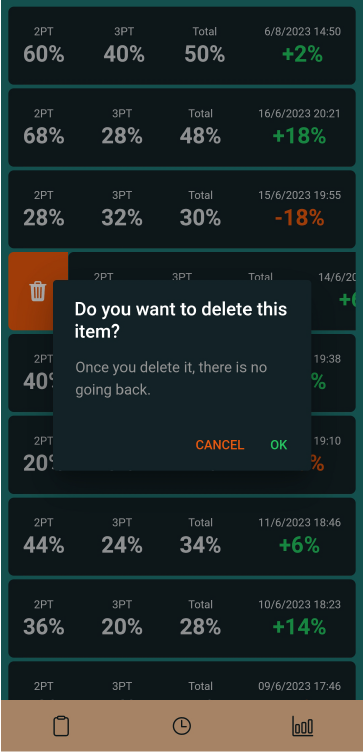
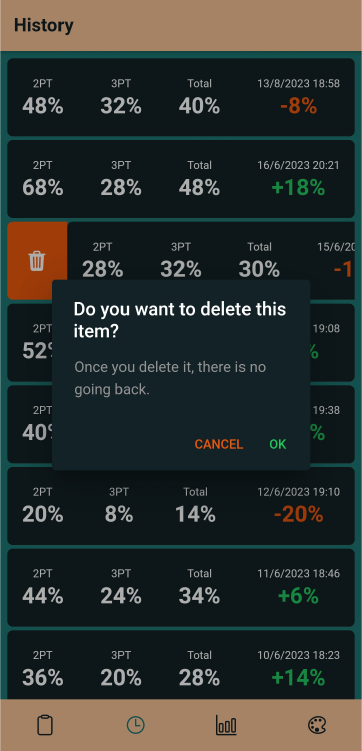
feat: tutorial update

diff --git a/src/app/pages/practice/tutorial/tutorial.component.html b/src/app/pages/practice/tutorial/tutorial.component.html
@@ -36,6 +36,10 @@
         <img src="../../../../assets/img/tutorial-imgs/tutorial-05.png"/>
         <p>To have a more clear picture of your training progress you can check the Stats page</p>
       </swiper-slide>
+      <swiper-slide>
+        <img src="../../../../assets/img/tutorial-imgs/tutorial-06.png"/>
+        <p>You can choose your favourite theme for the app</p>
+      </swiper-slide>
     </swiper-container>
   </div>
 </ion-content>
